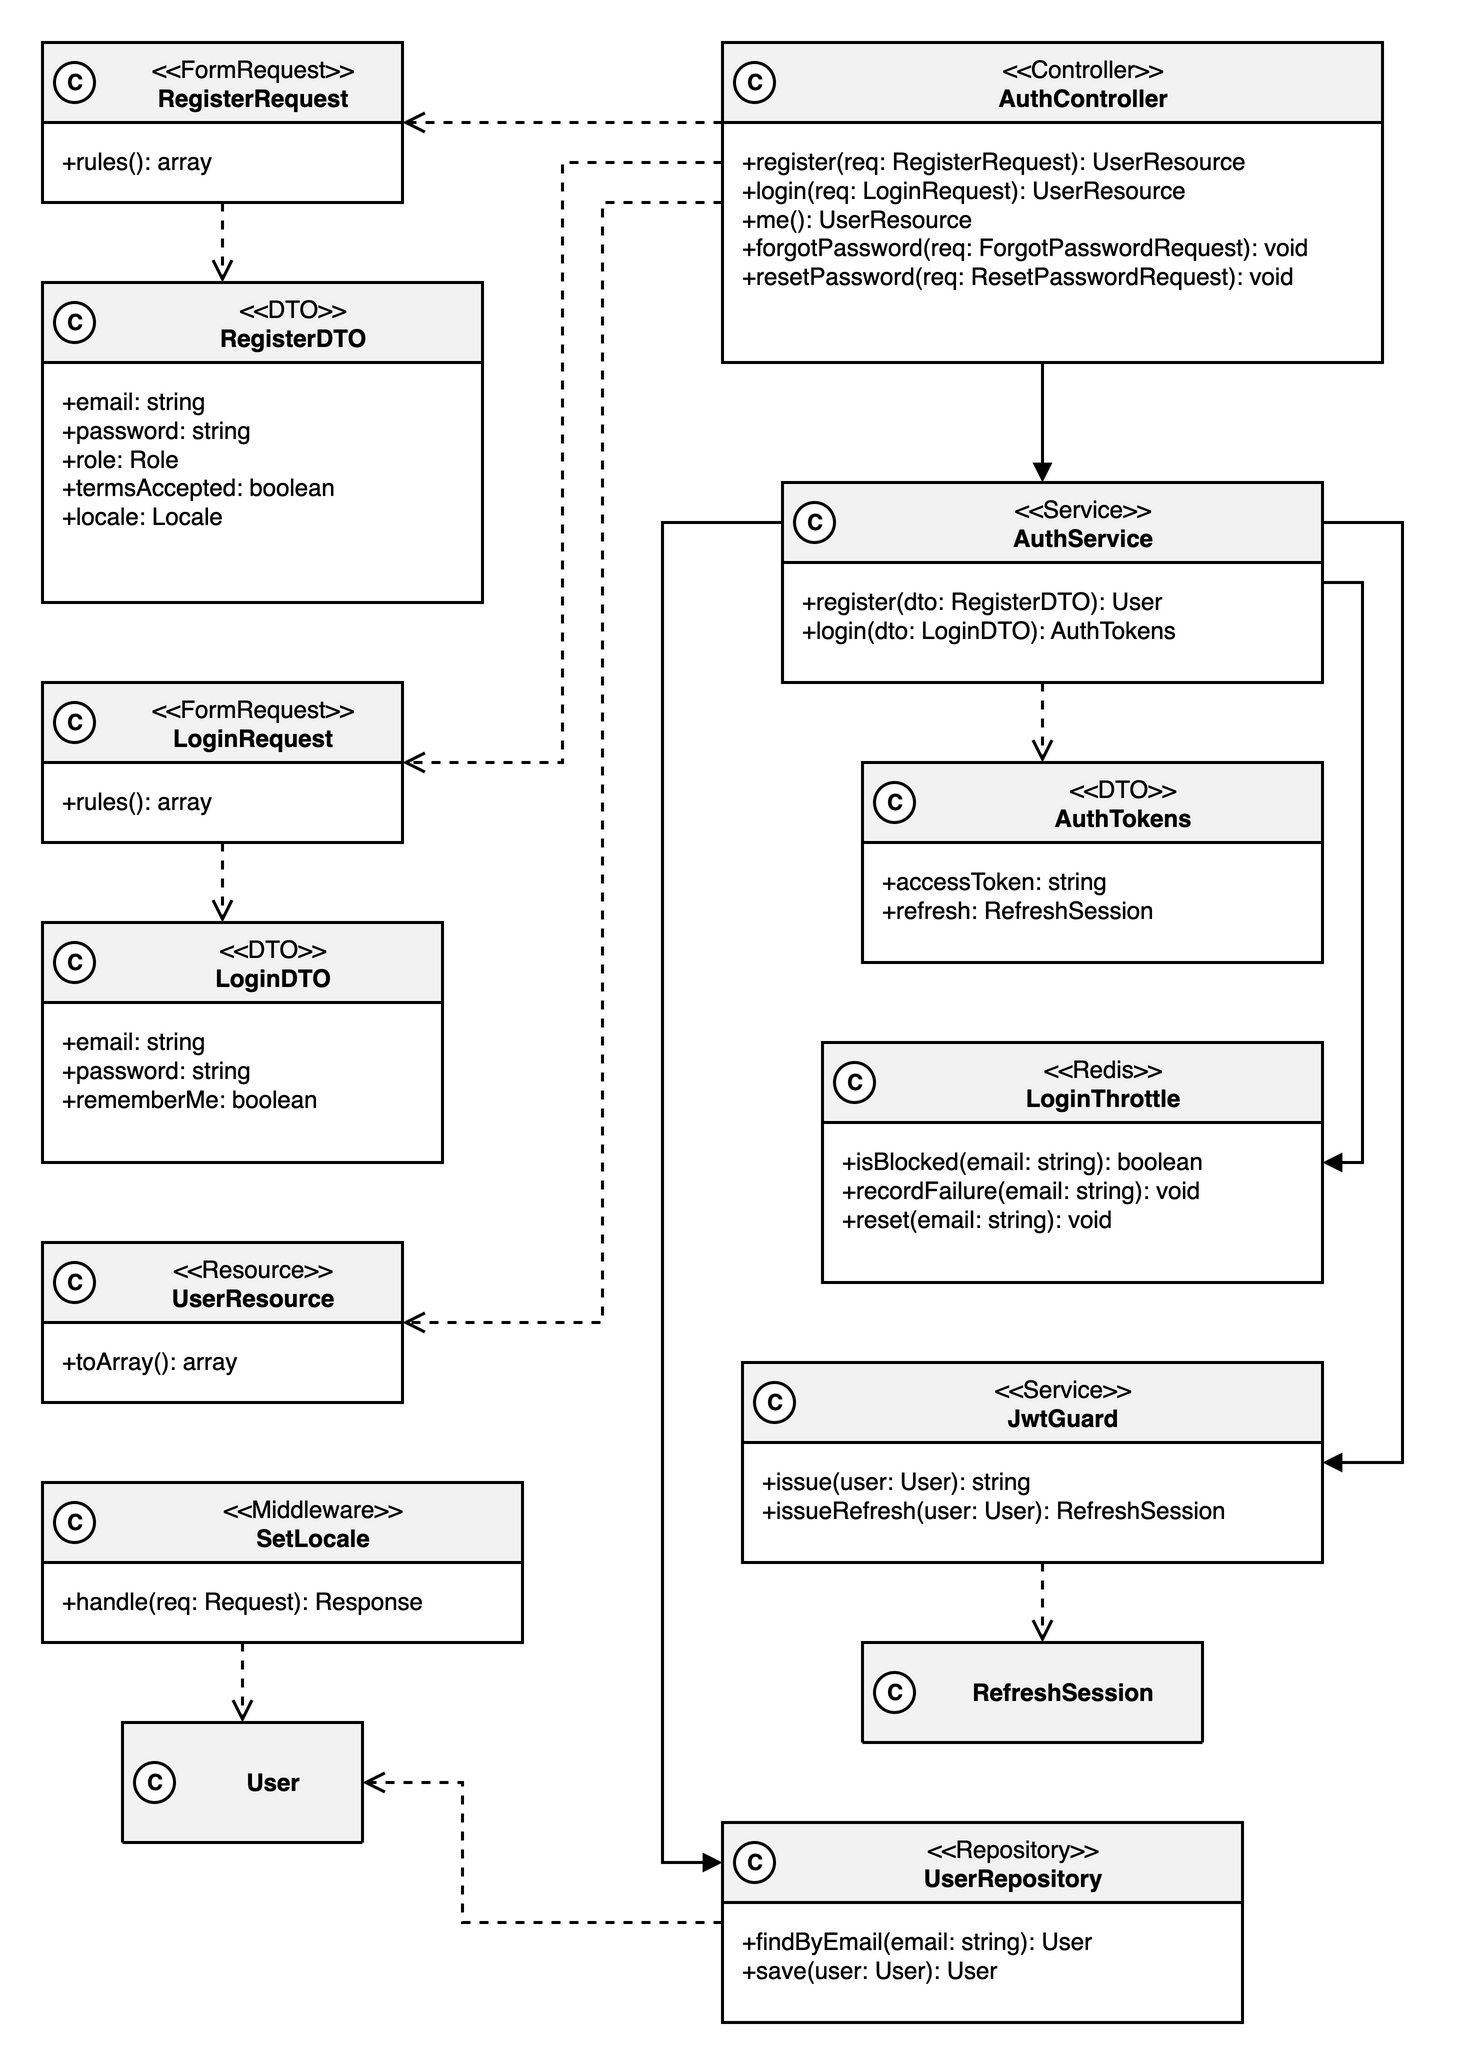
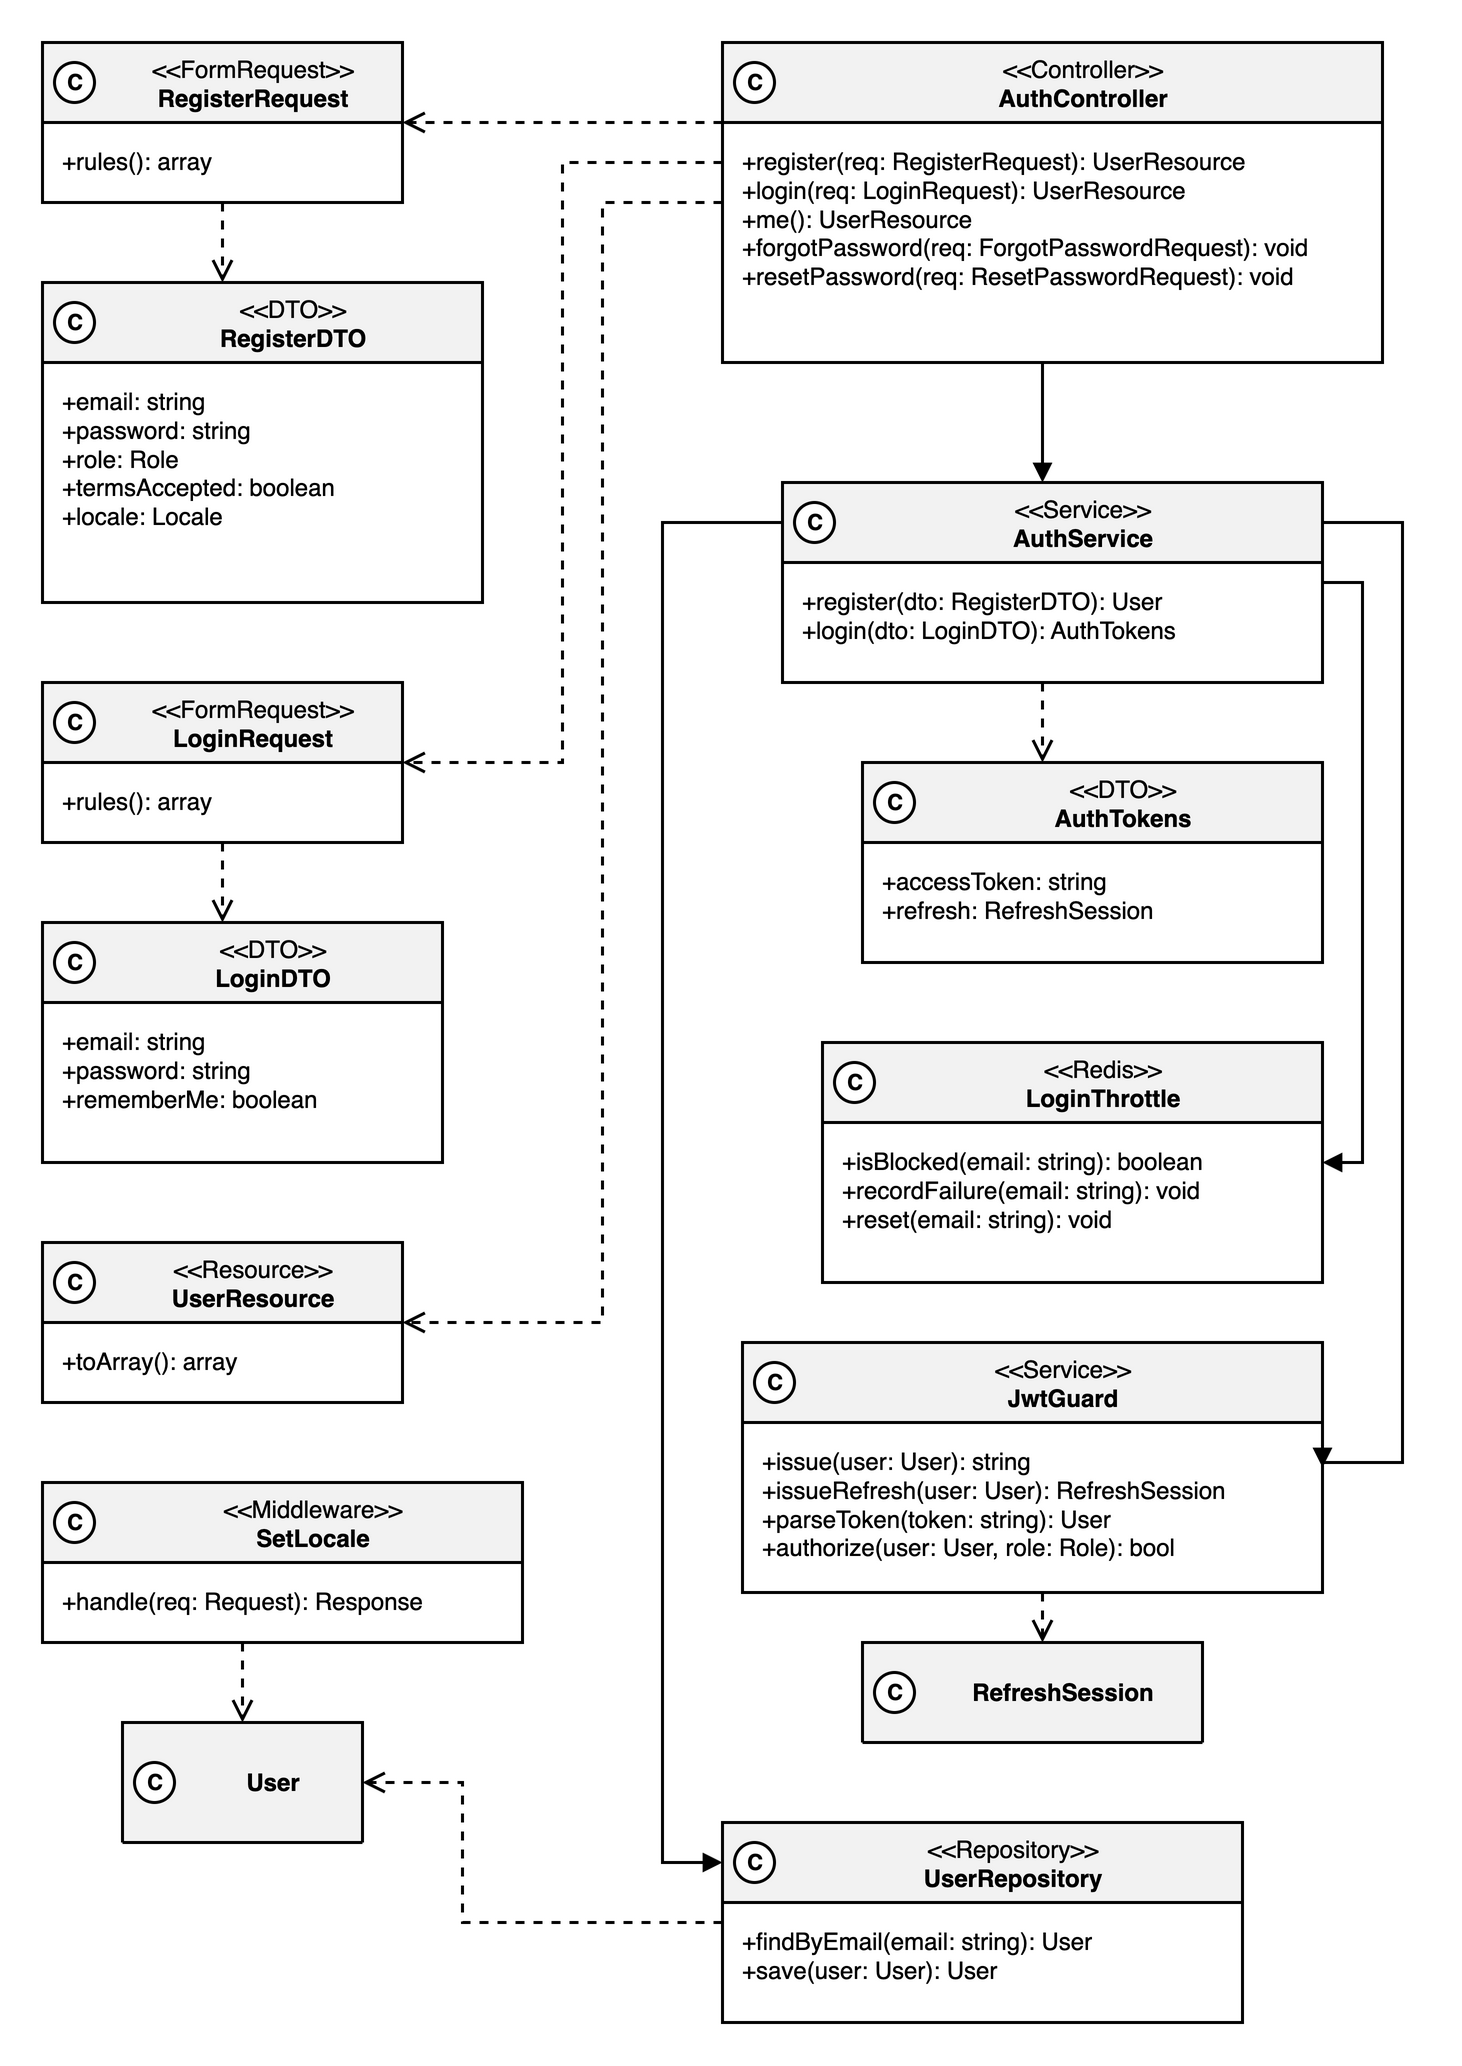
fix(diagrama-de-classes): expose JwtGuard token checks and English enum values in area A
Area D's UC016 sequence validates the token and the route role through
JwtGuard, but the area A class diagram only declared issue() and
issueRefresh(), so the sequence called methods that did not exist.
parseToken() and authorize() are now part of JwtGuard. The User.status
and User.theme values in the area A data dictionary move to the English
values the other areas persist (active/blocked/deleted, light/dark/system),
with the pt-BR label kept beside each one.

Refs #135

Changed region(s): [[0.4925, 0.6505, 0.9234, 0.7744]]

diff --git a/especificacao/13-diagrama-de-classes/area-a.md b/especificacao/13-diagrama-de-classes/area-a.md
@@ -2,7 +2,7 @@
 
 Classes dos casos de uso UC005, UC011, UC012, UC013 e UC017, em duas perspectivas do mesmo modelo. Na perspectiva negocial, `User` é abstrata e tem as subclasses `Student`, `Instructor` e `Administrator`; o `Instructor` tem exatamente um `InstructorProfile` e o `User` agrega endereços, tokens de redefinição de senha e sessões de refresh. A classe guarda o tipo (`theme: ThemeType`, `locale: Locale`) e nunca o id de uma chave estrangeira. Os identificadores e os nomes de métodos ficam em inglês; o texto que o Usuário vê fica em arquivos de tradução (pt-BR agora, com en e es prontos para entrar sem mudar o modelo, RNF013), escolhido por `User.locale`.
 
-Na perspectiva de implementação, que vem em três diagramas (cadastro e login, recuperação de senha, perfil) para caber legível na página, os Controllers recebem as requisições já validadas pelos Form Requests, que as convertem em DTOs, e delegam aos Services. Os Services usam os Repositories, o `JwtGuard` (JWT de 1 hora em cookie e refresh rotacionado, ADR-0008), o `LoginThrottle` (bloqueio após 5 falhas, RNF008, guardado no Redis), o `ResetMailer` e o `PhotoStorage` (foto no Cloudflare R2). O middleware `SetLocale` define o idioma da requisição a partir do `User.locale` ou do cabeçalho `Accept-Language`, e as respostas saem em API Resources.
+Na perspectiva de implementação, que vem em três diagramas (cadastro e login, recuperação de senha, perfil) para caber legível na página, os Controllers recebem as requisições já validadas pelos Form Requests, que as convertem em DTOs, e delegam aos Services. Os Services usam os Repositories, o `JwtGuard` (JWT de 1 hora em cookie e refresh rotacionado, ADR-0008; também valida o token com `parseToken` e o perfil exigido pela rota com `authorize`, usados pela Área D no UC016), o `LoginThrottle` (bloqueio após 5 falhas, RNF008, guardado no Redis), o `ResetMailer` e o `PhotoStorage` (foto no Cloudflare R2). O middleware `SetLocale` define o idioma da requisição a partir do `User.locale` ou do cabeçalho `Accept-Language`, e as respostas saem em API Resources.
 
 ![Classes negociais da Área A](../diagramas/13-classes-area-a-negocial.png)
 

diff --git a/especificacao/12-modelo-de-dados/area-a.md b/especificacao/12-modelo-de-dados/area-a.md
@@ -21,8 +21,8 @@ Decisões do modelo:
 | email | Simples | Texto | 150 | E-mail, único; usado no login. |
 | passwordHash | Simples | Texto | 255 | Hash da senha (RNF007). |
 | role | Simples | Texto | - | Perfil: student, instructor ou admin. |
-| status | Simples | Texto | - | Ativo, bloqueado ou excluído. |
-| theme | Simples | Texto | - | Tema da interface: claro, escuro ou sistema (UC013 R-7). |
+| status | Simples | Texto | - | Situação da conta: active (ativo), blocked (bloqueado) ou deleted (excluído). |
+| theme | Simples | Texto | - | Tema da interface: light (claro), dark (escuro) ou system (sistema) (UC013 R-7). |
 | locale | Simples | Texto | 5 | Idioma da interface e das mensagens, validado contra a lista de idiomas ativos: pt-BR (padrão; en e es entram sem migração) (RNF013). |
 | termsAcceptedAt | Simples | Data e hora | - | Quando o usuário aceitou os termos no cadastro. |
 | phone | Simples | Texto | 20 | Telefone com DDD (opcional). |
